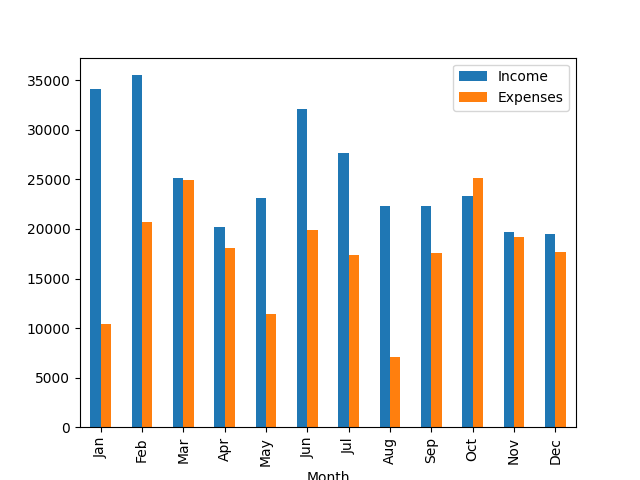
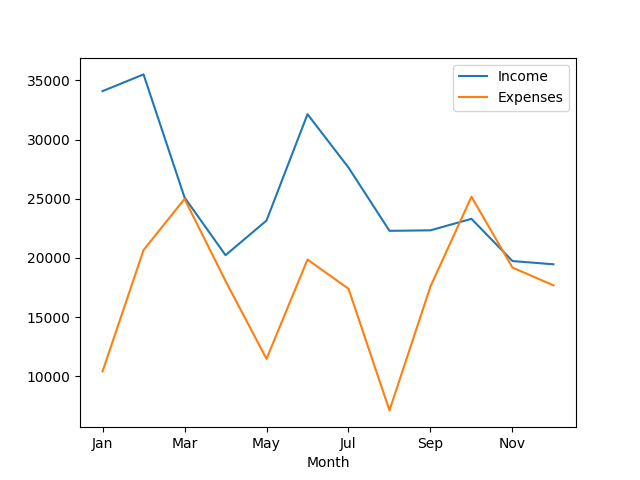
line graph

Changed region(s): [[0.0312, 0.1562, 0.9062, 1.0], [0.7188, 0.125, 0.7812, 0.2188], [0.2188, 0.9375, 0.25, 0.9688]]

diff --git a/app.py b/app.py
@@ -35,7 +35,7 @@ def upload_file():
         # Process the file and generate a graph
         data = pd.read_excel(file_path)
         plt.figure()
-        data.plot(x='Month', y=['Income', 'Expenses'], kind='bar')
+        data.plot(x='Month', y=['Income', 'Expenses'], kind='line')
         graph_path = os.path.join(STATIC_FOLDER, 'graph.png')
         plt.savefig(graph_path)
 
